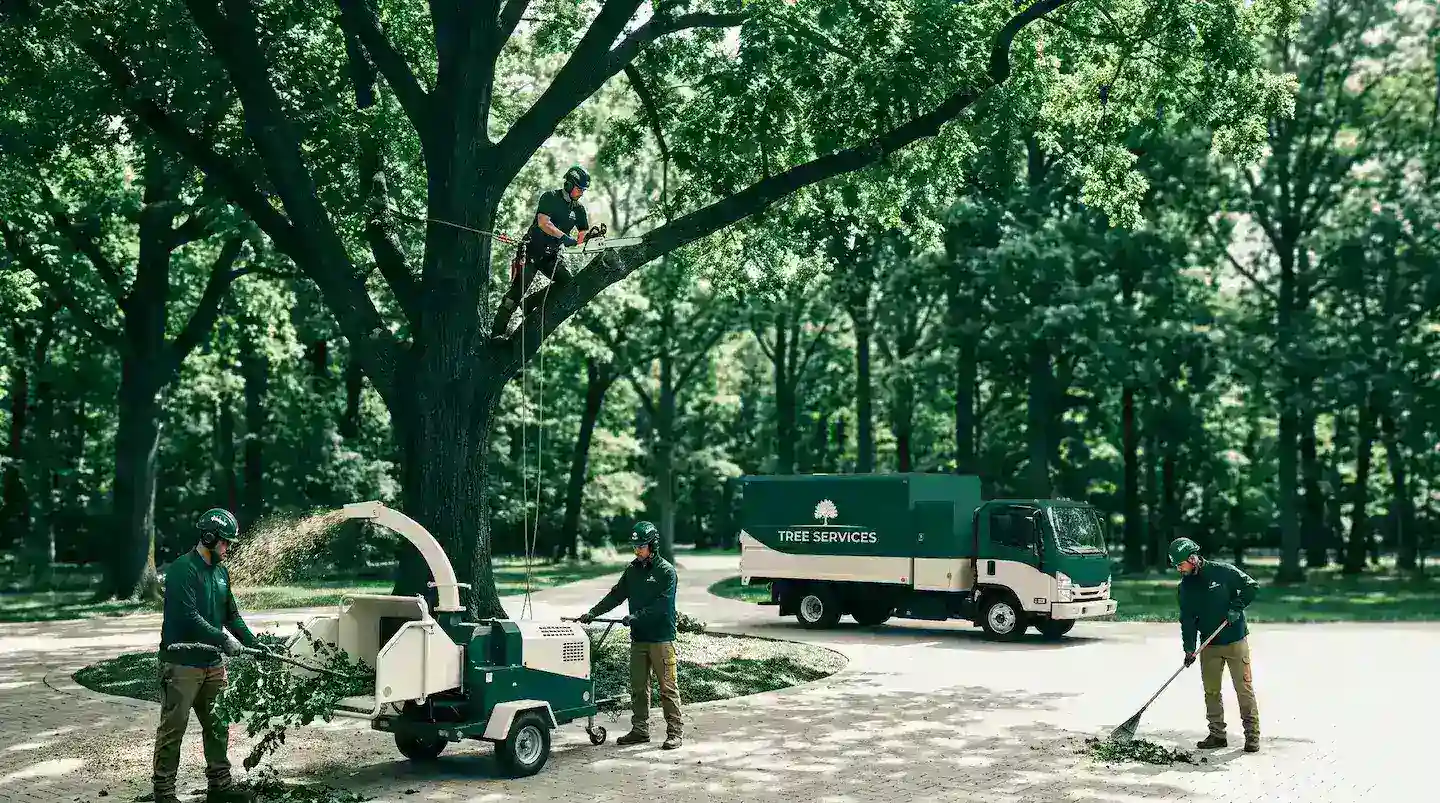
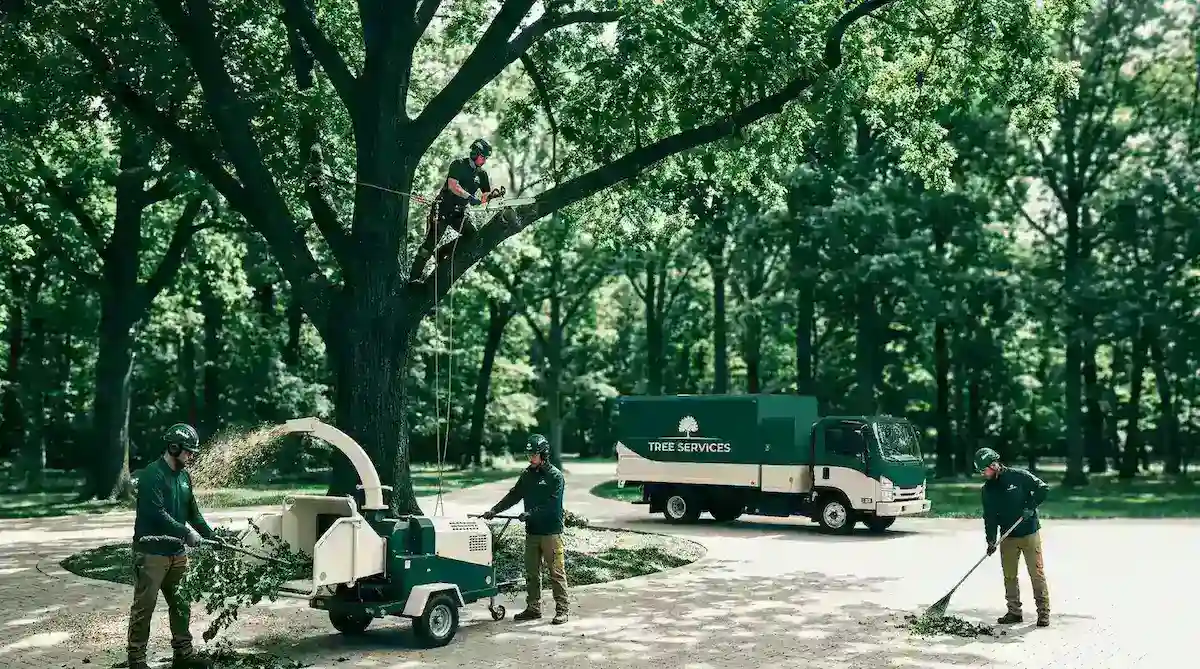
.

diff --git a/frontend/index.html b/frontend/index.html
@@ -11,6 +11,8 @@
 
     <!-- LCP preload: browser fetches hero image before JS runs — fixes 14s LCP -->
  <link rel="preload" href="/g2.webp" as="image" fetchpriority="high">
+ <link rel="preconnect" href="https://fonts.googleapis.com">
+<link rel="preconnect" href="https://fonts.gstatic.com" crossorigin>
 
     <!-- Async font load — eliminates render-blocking (saves ~500ms) -->
     <link
